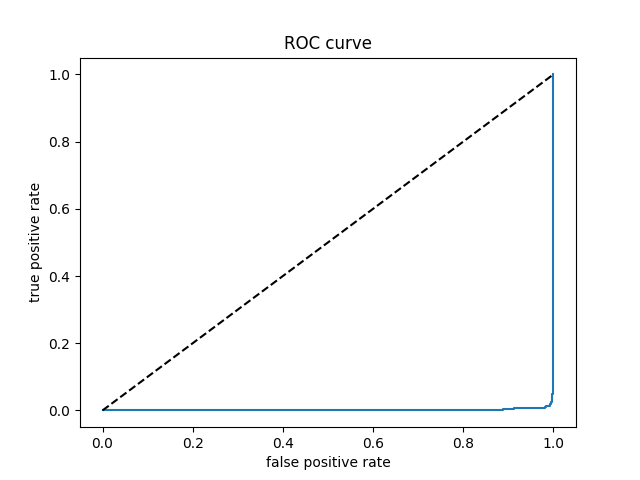
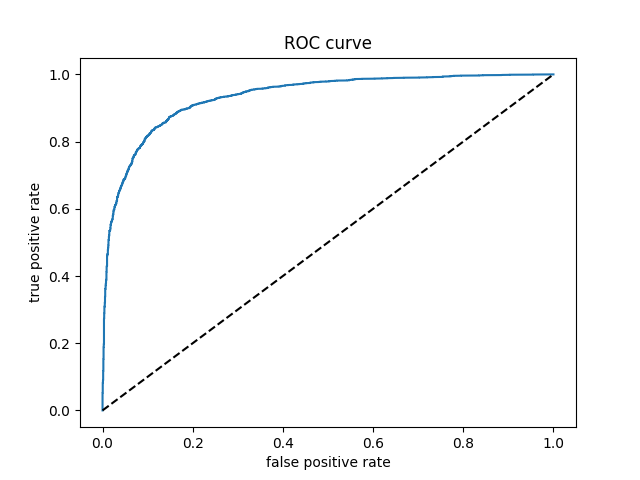
reduce image size for DNN to improve performance

diff --git a/classify.py b/classify.py
@@ -115,8 +115,8 @@ def classification(model_path):
 
 def classification_dnn(model_path):
     """just to account for the discrepancy that DNN expects 1D series of pixels"""
-    IMG_HEIGHT = 178
-    IMG_WIDTH = 218
+    IMG_HEIGHT = 178 // 4
+    IMG_WIDTH = 218 // 4
     model = tf.keras.models.load_model(model_path)
 
     data_path = '/Users/kristofgalambos/Downloads/archive/test'

diff --git a/train_model.py b/train_model.py
@@ -53,8 +53,8 @@ def train_vgg(data_path, model_path, epochs):
 
 
 def train_dnn(data_path, model_path, epochs):
-    IMG_HEIGHT = 178
-    IMG_WIDTH = 218
+    IMG_HEIGHT = 178 // 4
+    IMG_WIDTH = 218 // 4
     model = Sequential()
     model.add(Dense(1024, input_shape=(IMG_HEIGHT*IMG_WIDTH,), activation='relu'))
     model.add(Dense(1024, activation='relu'))

diff --git a/main.py b/main.py
@@ -15,9 +15,9 @@ start_time = time.perf_counter()
 PREPROCESS = False
 TRAIN_MODEL = True
 CLASSIFY = True
-MODEL_TYPE = 'vgg'
+# MODEL_TYPE = 'vgg'
 # MODEL_TYPE = 'cnn'
-# MODEL_TYPE = 'dnn'
+MODEL_TYPE = 'dnn'
 
 if PREPROCESS:
     preprocess(play=False)
